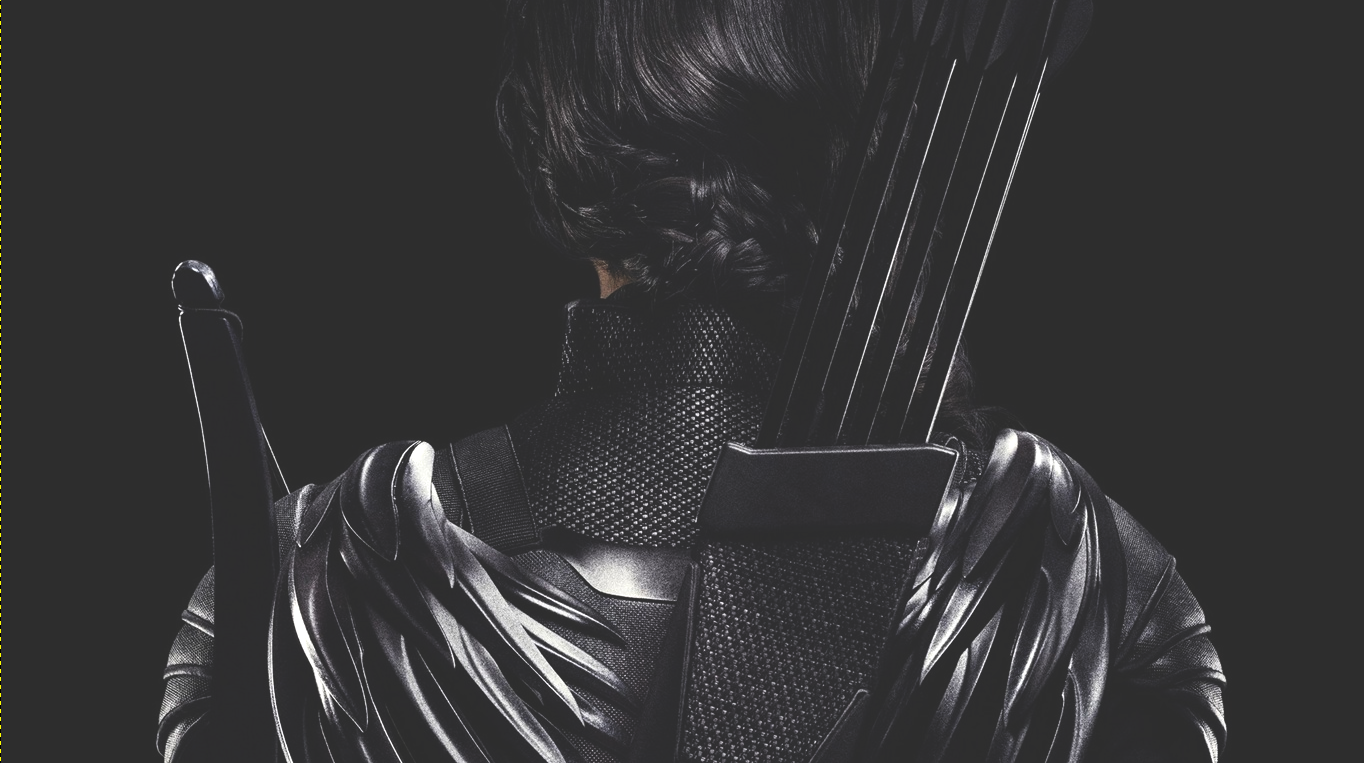
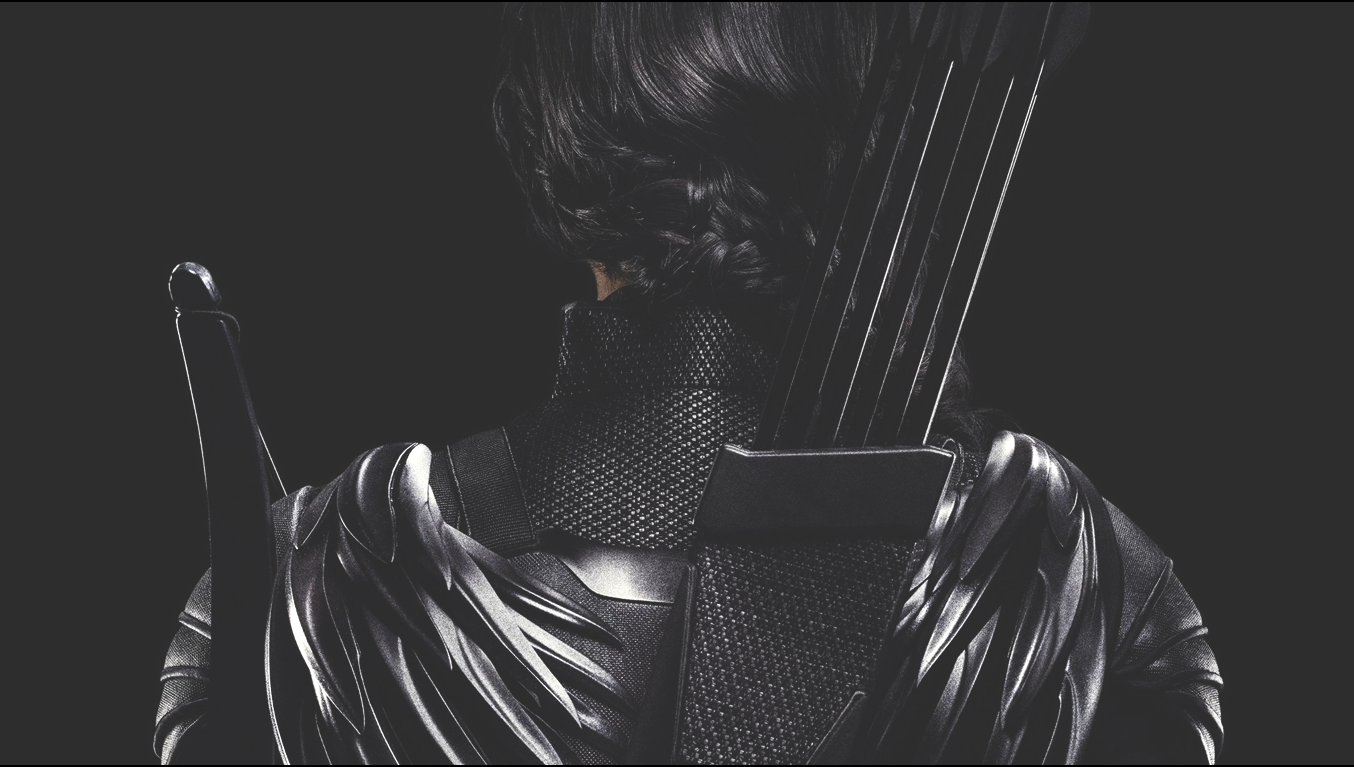
Prueba CV 5

diff --git a/P1/index.html b/P1/index.html
@@ -15,9 +15,10 @@
   <div class = "fila">
     <div id = "c1" class="columna izquierda">
 
-      <div class = "iresponsive">
-        <img id="imghtml" src="FotoPerfil.png" alt="FotoPerfil">
-
+      <div class = "iresponsive" >
+        <img id="imghtml"  src="FotoPerfil.png" alt="FotoPerfil">
+      </div>
+      
         <h2 class ="Tizq">Datos personales</h2>
           <ul class = "info1">
             <li>Fecha de nacimiento: 08/05/2006</li>
@@ -42,43 +43,44 @@
         <p>
           <a class = "url" href="https://carlamorenoad.github.io/2023-2024-CSAAI-Practicas/P1/about.html">Habilidades Clave</a>
         </p>
-      </div>
     </div>
     
   
     <div id="c2" class="columna derecha">
 
-      <h1>KATNISS EVERDEEN</h1>
+        <h1>KATNISS EVERDEEN</h1>
 
-      <h2>Sobre mi</h2>
-      <p class = "info2">¡Holaa!, Soy Katniss Everdeen, mi vida ha sido un torbellino de desafíos, resistencia y determinación. Nací y crecí en el humilde Distrito 12 de Panem, un lugar donde la esperanza era escasa y la supervivencia era una lucha diaria. Desde temprana edad, aprendí que la fortaleza y la valentía eran esenciales para sobrevivir en un mundo lleno de injusticia y opresión.
-        En la Segunda Rebelión, lideré a los habitantes de Panem en una lucha por la libertad y la justicia. Mi arco y flecha se convirtieron en armas de resistencia, y mi determinación se convirtió en el faro de esperanza para los oprimidos.
-        Me convertí en una embajadora de la paz, buscando sanar las heridas del pasado y construir un futuro mejor para las generaciones venideras.
-        Mi viaje ha estado marcado por la pérdida, el sacrificio y el sufrimiento, pero también por la esperanza, la valentía y la determinación. Aunque mi papel en la historia de Panem puede haber llegado a su fin, mi legado perdurará como un recordatorio de que incluso en los tiempos más oscuros, la luz de la resistencia nunca se apaga.
-        Mi nombre es Katniss Everdeen, la Chica en Llamas, el Sinsajo, y mi historia es la de una rebelde, una líder y una luchadora por la libertad con esperanza y determinación.
-      </p>
+        <h2>Sobre mi</h2>
+        <p class = "info2">¡Holaa!, Soy Katniss Everdeen, mi vida ha sido un torbellino de desafíos, resistencia y determinación. Nací y crecí en el humilde Distrito 12 de Panem, un lugar donde la esperanza era escasa y la supervivencia era una lucha diaria. Desde temprana edad, aprendí que la fortaleza y la valentía eran esenciales para sobrevivir en un mundo lleno de injusticia y opresión.
+         En la Segunda Rebelión, lideré a los habitantes de Panem en una lucha por la libertad y la justicia. Mi arco y flecha se convirtieron en armas de resistencia, y mi determinación se convirtió en el faro de esperanza para los oprimidos.
+         Me convertí en una embajadora de la paz, buscando sanar las heridas del pasado y construir un futuro mejor para las generaciones venideras.
+         Mi viaje ha estado marcado por la pérdida, el sacrificio y el sufrimiento, pero también por la esperanza, la valentía y la determinación. Aunque mi papel en la historia de Panem puede haber llegado a su fin, mi legado perdurará como un recordatorio de que incluso en los tiempos más oscuros, la luz de la resistencia nunca se apaga.
+         Mi nombre es Katniss Everdeen, la Chica en Llamas, el Sinsajo, y mi historia es la de una rebelde, una líder y una luchadora por la libertad con esperanza y determinación.
+        </p>
 
-      <h2>Experiencia Profesional</h2>
-      <ul class = "info2">
-        <li class = "li">Participante de los Juegos del Hambre</li>
-        <p>Participé en los 74º y 75º Juegos del Hambre. Mi participación en estos eventos me llevó
-          a enfrentarme a desafíos extremos, donde demostré mi habilidad para sobrevivir en entornos hostiles
-          y mi capacidad para pensar estrategicamente bajo presión.
-        </p>
-        <li class = "li">Lider de la Rebelión</li>
-        <p>Durante la Segunda Rebelión contra el Capitolio, emergí como una líder natural. 
-          Mi valentía y mi compromiso con la causa inspiraron a otros a unirse a la lucha por la libertad.
-          Mi papel en la destrucción del Distrito 12 y mi liderazgo en la toma del Capitolio me convirtieron
-          en una figura central en la historia de Panem.
-        </p>
-        <li class = "li">Embajadora de la Unidad Panem</li>
-        <p>Después de la guerra, continué trabajando como embajadora de la unidad en un Panem fracturado.
-          Mi capacidad para unir a las diferentes facciones y promover la reconciliación fue fundamental en la 
-          reconstrucción de la nación y en la transición hacia una sociedad más justa y equitativa.</p>
-      </ul>
+        <h2>Experiencia Profesional</h2>
+          <ul class = "info2">
+            <li class = "li">Participante de los Juegos del Hambre</li>
+              <p>Participé en los 74º y 75º Juegos del Hambre. Mi participación en estos eventos me llevó
+               a enfrentarme a desafíos extremos, donde demostré mi habilidad para sobrevivir en entornos hostiles
+               y mi capacidad para pensar estrategicamente bajo presión.
+              </p>
+
+            <li class = "li">Lider de la Rebelión</li>
+              <p>Durante la Segunda Rebelión contra el Capitolio, emergí como una líder natural. 
+              Mi valentía y mi compromiso con la causa inspiraron a otros a unirse a la lucha por la libertad.
+              Mi papel en la destrucción del Distrito 12 y mi liderazgo en la toma del Capitolio me convirtieron
+              en una figura central en la historia de Panem.
+              </p>
+
+            <li class = "li">Embajadora de la Unidad Panem</li>
+              <p>Después de la guerra, continué trabajando como embajadora de la unidad en un Panem fracturado.
+              Mi capacidad para unir a las diferentes facciones y promover la reconciliación fue fundamental en la 
+              reconstrucción de la nación y en la transición hacia una sociedad más justa y equitativa.</p>
+          </ul>
 
       <h2>Estudios</h2>
-      <ul class = "info2">
+        <ul class = "info2">
           <li class = "li">Educación primeria, Distrito 12</li>
           <ul>
             <p>

diff --git a/P1/2c-template.css b/P1/2c-template.css
@@ -73,7 +73,7 @@ body {
 
 .about {
   background-image: url('FondoPF.png');
-  background-size: cover;
+  background-attachment: fixed;
 }
 
  @font-face {
@@ -86,7 +86,6 @@ body {
   }
 
 .Tizq {
-  width: 100%;
   margin: auto;
   font-family:'BankGothicBold';
   padding: 10px;
@@ -237,7 +236,7 @@ img {
 .iresponsive {
     padding: 0 6px;
     float: left;
-    width: 50%;
+    width: auto;
   }
 
 /* Responsive layout - cuando el ancho de pantalla es menor a 600px, muestra las columnas apiladas. */
